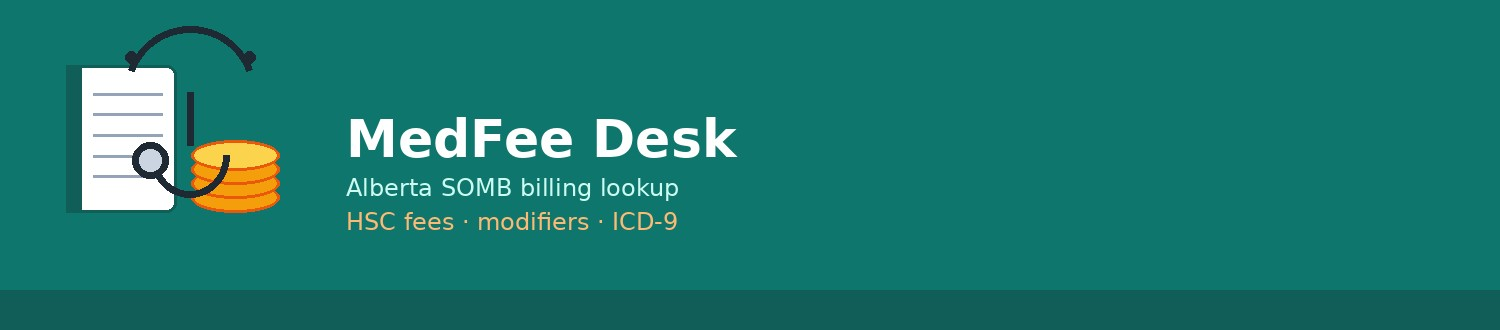
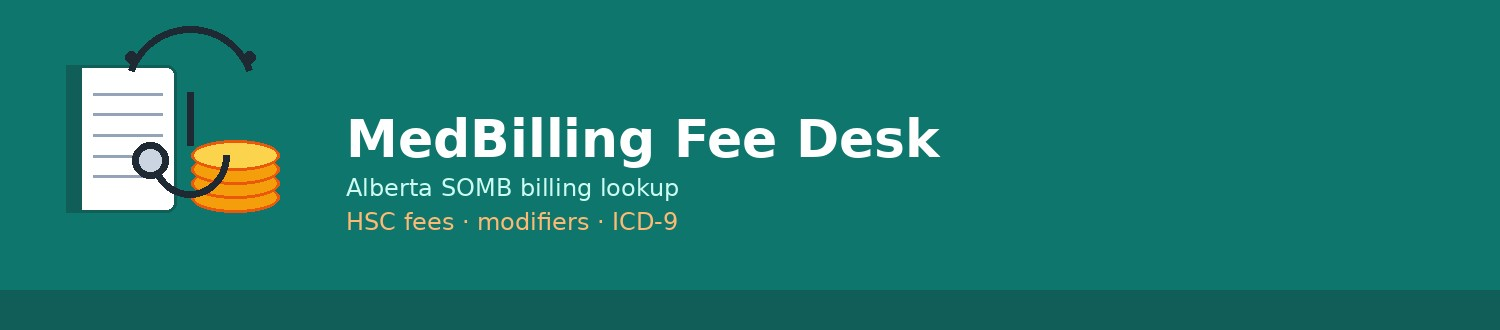
Import site bundle a1596681189c2225d69307c4329e69f471bd3a3442d255f2dcfee0196f6692ae

Changed region(s): [[0.3067, 0.3333, 0.644, 0.5152]]

diff --git a/site/js/app.js b/site/js/app.js
@@ -1,4 +1,4 @@
-/* MedFee Desk - app. Static, offline-capable. No analytics, no trackers, no patient data stored. */
+/* MedBilling Fee Desk - app. Static, offline-capable. No analytics, no trackers, no patient data stored. */
 (function () {
   'use strict';
   const $ = (s, el) => (el || document).querySelector(s);
@@ -44,21 +44,21 @@
   const keyToItem = (k, t) => ({ type: k[0] === 'H' ? 'HSC' : 'ICD9', code: k.slice(2), ...(t ? { at: t } : {}) });
   function exportSaved() {
     const now = new Date();
-    const data = { app: 'MedFee Desk', kind: 'favourites', version: 1, exported: now.toISOString(),
+    const data = { app: 'MedBilling Fee Desk', kind: 'favourites', version: 1, exported: now.toISOString(),
       favourites: FAVS.map(k => keyToItem(k, TS.f[k])), recent: RECENT.map(k => keyToItem(k, TS.r[k])) };
     const d = `${now.getFullYear()}-${String(now.getMonth() + 1).padStart(2, '0')}-${String(now.getDate()).padStart(2, '0')}`;
-    const name = `medfee-desk-favourites-${d}.json`, text = JSON.stringify(data, null, 1);
+    const name = `medbilling-fee-desk-favourites-${d}.json`, text = JSON.stringify(data, null, 1);
     const blob = new Blob([text], { type: 'application/json' });
     const download = () => { const u = URL.createObjectURL(blob); const a = document.createElement('a'); a.href = u; a.download = name; a.rel = 'noopener'; document.body.appendChild(a); a.click(); a.remove(); setTimeout(() => URL.revokeObjectURL(u), 4000); toast('Exported ' + name); };
     // iPhone/iPad (Safari and home-screen app): the share sheet offers "Save to Files", AirDrop, Mail. Elsewhere: a normal download.
     let file = null; try { file = new File([blob], name, { type: 'application/json' }); } catch (e) {}
     if (phone && file && navigator.canShare && navigator.canShare({ files: [file] })) {
-      navigator.share({ files: [file], title: 'MedFee Desk favourites' }).then(() => toast('Exported ' + name)).catch(err => { if (!err || err.name !== 'AbortError') download(); });
+      navigator.share({ files: [file], title: 'MedBilling Fee Desk favourites' }).then(() => toast('Exported ' + name)).catch(err => { if (!err || err.name !== 'AbortError') download(); });
     } else download();
   }
   function parseImport(text) {
     const o = JSON.parse(text);
-    if (!o || typeof o !== 'object' || (!Array.isArray(o.favourites) && !Array.isArray(o.recent))) throw new Error('not a MedFee Desk favourites file');
+    if (!o || typeof o !== 'object' || (!Array.isArray(o.favourites) && !Array.isArray(o.recent))) throw new Error('not a MedBilling Fee Desk favourites file');
     const conv = arr => (Array.isArray(arr) ? arr : []).map(x => {
       if (!x || typeof x.code !== 'string') return null;
       const code = x.code.trim().toUpperCase(), t = x.type === 'ICD9' ? 'I' : 'H';
@@ -71,7 +71,7 @@
   function importSaved(file) {
     const r = new FileReader();
     r.onload = () => {
-      let p; try { p = parseImport(String(r.result)); } catch (e) { alert('Import failed: this is not a MedFee Desk favourites file.'); return; }
+      let p; try { p = parseImport(String(r.result)); } catch (e) { alert('Import failed: this is not a MedBilling Fee Desk favourites file.'); return; }
       const newFav = [...new Set(p.fav.map(x => x.key))].filter(k => !FAVS.includes(k));
       const skipped = p.skipped - p.fav.length - p.rec.length;
       if (!newFav.length && !p.rec.length) { alert('Nothing to import: all favourites in this file are already saved' + (skipped ? ` (${skipped} unknown code${skipped > 1 ? 's' : ''} skipped)` : '') + '.'); return; }
@@ -710,7 +710,7 @@
       const js = r.journals.filter(o => !o.obgy || skill === 'OBGY' || skill === 'BASE' || !icd);
       return `<div class="region"><h3>${esc(r.name)}</h3><ul>${orgs.map(item).join('')}</ul>${r.local ? `<h4>${esc(r.localLabel || 'Regional and local resources')}</h4><ul>${r.local.map(item).join('')}</ul>` : ''}${r.charities ? `<h4>National Health Charities &amp; Organizations</h4><ul>${r.charities.map(item).join('')}</ul>` : ''}<h4>Journals</h4><ul>${js.map(item).join('')}</ul></div>`;
     }).join('')}
-    <p class="small muted">External links for reference; MedFee Desk is not affiliated. Search links carry only the condition name${icd ? ` ("${esc(term)}")` : ''}.</p>
+    <p class="small muted">External links for reference; MedBilling Fee Desk is not affiliated. Search links carry only the condition name${icd ? ` ("${esc(term)}")` : ''}.</p>
     <p class="small muted">ICD-10/ICD-11 equivalents: no validated crosswalk from the Alberta ICD-9 supplement is bundled; use the WHO ICD-10/11 browsers above.</p>`;
   }
   function wireRegion(root, icd) {
@@ -798,7 +798,7 @@
   function gr(id) { return RULEBY[id] ? `<a href="#/rules/${id}">GR ${id}</a>` : 'GR ' + id; }
   function renderNotes() {
     $('#notes').innerHTML = `<div class="notes">
-    <p class="small muted">Short claim notes written for MedFee Desk from the SOMB effective ${esc(fmtDate(META.sombEffective))}. Fees shown for fee skill ${esc(skill === 'BASE' ? 'base' : skill)}. The governing rule text prevails.</p>
+    <p class="small muted">Short claim notes written for MedBilling Fee Desk from the SOMB effective ${esc(fmtDate(META.sombEffective))}. Fees shown for fee skill ${esc(skill === 'BASE' ? 'base' : skill)}. The governing rule text prevails.</p>
     <div class="card"><h3>Cesarean section and BMI</h3><ul>
       <li>${hsc('86.9C')}; ${hsc('86.9D')}; ${hsc('86.9B')}. Neither 86.9C nor 86.9D may be claimed with 81.29C (HSC note).</li>
       <li>BMI modifier (BMIPRO for the surgeon/assistant, BMIANE/BMI2AN for anaesthesia) adds 25% where the price list lists it: adult BMI ≥ 40 or paediatric &gt; 97th percentile — ${gr('18.1')}.</li>
@@ -858,7 +858,7 @@
     $('#aiList').addEventListener('click', e => {
       const b = e.target.closest('button[data-ai]'); if (!b) return;
       aiPick = AIS.find(a => a.id === b.dataset.ai);
-      $('#aiConfirmText').textContent = `This opens ${aiPick.name} outside MedFee Desk. Do not add patient names, PHN, DOB, chart or claim numbers.`;
+      $('#aiConfirmText').textContent = `This opens ${aiPick.name} outside MedBilling Fee Desk. Do not add patient names, PHN, DOB, chart or claim numbers.`;
       $('#aiList').hidden = true; $('#aiConfirm').hidden = false;
     });
     $('#aiBack').onclick = () => { $('#aiConfirm').hidden = true; $('#aiList').hidden = false; };

diff --git a/site/index.html b/site/index.html
@@ -5,24 +5,24 @@
 <meta name="viewport" content="width=device-width, initial-scale=1, viewport-fit=cover">
 <meta http-equiv="Content-Security-Policy" content="default-src 'self'; script-src 'self'; style-src 'self'; img-src 'self' data:; connect-src 'self' https://api.web3forms.com; form-action https://api.web3forms.com; manifest-src 'self'; worker-src 'self'; base-uri 'self'">
 <meta name="referrer" content="no-referrer">
-<title>MedFee Desk</title>
-<meta name="description" content="MedFee Desk: private Alberta SOMB billing lookup: health service codes, fees by fee skill, modifiers, governing rules and ICD-9 codes.">
+<title>MedBilling Fee Desk</title>
+<meta name="description" content="MedBilling Fee Desk: private Alberta SOMB billing lookup: health service codes, fees by fee skill, modifiers, governing rules and ICD-9 codes.">
 <meta name="theme-color" content="#0f766e">
 <meta name="apple-mobile-web-app-capable" content="yes">
 <meta name="mobile-web-app-capable" content="yes">
 <meta name="apple-mobile-web-app-status-bar-style" content="black-translucent">
-<meta name="apple-mobile-web-app-title" content="MedFee Desk">
-<meta property="og:title" content="MedFee Desk">
-<meta property="og:description" content="MedFee Desk: Alberta SOMB billing lookup for physicians.">
-<meta property="og:site_name" content="MedFee Desk">
+<meta name="apple-mobile-web-app-title" content="Fee Desk">
+<meta property="og:title" content="MedBilling Fee Desk">
+<meta property="og:description" content="MedBilling Fee Desk: Alberta SOMB billing lookup for physicians.">
+<meta property="og:site_name" content="MedBilling Fee Desk">
 <meta property="og:image" content="https://tp8p7c4vwr-del.github.io/delara-medbilling/og.jpg">
 <meta property="og:url" content="https://tp8p7c4vwr-del.github.io/delara-medbilling/">
 <meta property="og:type" content="website">
 <meta name="twitter:image" content="https://tp8p7c4vwr-del.github.io/delara-medbilling/og.jpg">
 <meta name="twitter:card" content="summary_large_image">
-<meta name="twitter:title" content="MedFee Desk">
-<meta name="twitter:description" content="MedFee Desk: Alberta SOMB billing lookup for physicians.">
-<meta name="application-name" content="MedFee Desk">
+<meta name="twitter:title" content="MedBilling Fee Desk">
+<meta name="twitter:description" content="MedBilling Fee Desk: Alberta SOMB billing lookup for physicians.">
+<meta name="application-name" content="MedBilling Fee Desk">
 <link rel="manifest" href="manifest.webmanifest">
 <link rel="icon" href="icons/icon-192.png" sizes="192x192">
 <link rel="apple-touch-icon" href="icons/apple-touch-icon.png">
@@ -30,9 +30,9 @@
 </head>
 <body>
 <header class="top">
-  <a class="brand" id="homeLink" href="./" aria-label="MedFee Desk home">
+  <a class="brand" id="homeLink" href="./" aria-label="MedBilling Fee Desk home">
     <img src="icons/icon-192.png" alt="" width="32" height="32">
-    <span class="title" aria-hidden="true">MedFee Desk</span>
+    <span class="title" aria-hidden="true">MedBilling Fee Desk</span>
   </a>
   <label class="skill">
     <span>Fee skill</span>
@@ -138,14 +138,14 @@
 <footer class="foot">
   <p id="dataline" class="dataline">Data: SOMB effective …, source alberta.ca</p>
   <p class="disclaimer">Reference only; verify against the current SOMB before submitting claims.</p>
-  <p class="small muted">External links for reference; MedFee Desk is not affiliated.</p>
+  <p class="small muted">External links for reference; MedBilling Fee Desk is not affiliated.</p>
   <p class="small muted">No patient data is stored. No analytics or trackers. Search runs on this device.</p>
   <details class="feedback">
     <summary>Suggest a change</summary>
     <form id="fb" novalidate>
       <p class="warn small">Do not include patient names, PHN, DOB, chart or claim numbers.</p>
       <input type="hidden" name="access_key" value="60e64aa8-fc33-4b85-9742-2a973a88369e">
-      <input type="hidden" name="subject" value="MedFee Desk feedback">
+      <input type="hidden" name="subject" value="MedBilling Fee Desk feedback">
       <input type="checkbox" name="botcheck" class="hp" tabindex="-1" autocomplete="off" aria-hidden="true">
       <label>Your email (optional)<input type="email" name="email" autocomplete="email"></label>
       <label>Suggestion<textarea name="message" rows="4" required></textarea></label>
@@ -153,7 +153,7 @@
       <p id="fbmsg" class="small" role="status"></p>
     </form>
   </details>
-  <div class="copyright">© 2026 MedFee Desk. All rights reserved. This app is protected by copyright. Reproduction or duplication without permission is an infringement.</div>
+  <div class="copyright">© 2026 MedBilling Fee Desk. All rights reserved. This app is protected by copyright. Reproduction or duplication without permission is an infringement.</div>
 </footer>
 
 <dialog id="aiDialog">

diff --git a/site/sw.js b/site/sw.js
@@ -1,7 +1,7 @@
-/* Offline cache for MedFee Desk. Same-origin only; never caches or forwards anything else.
+/* Offline cache for MedBilling Fee Desk. Same-origin only; never caches or forwards anything else.
    App shell (HTML/JS/CSS/manifest) is network-first so updates show up immediately; data and icons are
    stale-while-revalidate. Install fetches bypass the HTTP cache so a new version never caches old files. */
-const V = 'mb-v9-2026-04-01';
+const V = 'mb-v10-2026-04-01';
 const ASSETS = ['./', 'index.html', 'css/app.css', 'js/search.js', 'js/app.js', 'manifest.webmanifest',
   'icons/icon-192.png', 'icons/icon-512.png', 'icons/apple-touch-icon.png',
   'data/meta.json', 'data/codes.json', 'data/rules.json', 'data/modifiers.json', 'data/explanatory.json',

diff --git a/site/js/search.js b/site/js/search.js
@@ -1,4 +1,4 @@
-/* MedFee Desk - local BM25 + fuzzy + synonym search. Runs entirely in the browser; no network. */
+/* MedBilling Fee Desk - local BM25 + fuzzy + synonym search. Runs entirely in the browser; no network. */
 (function (global) {
   'use strict';
   const STOP = new Set('a an and or the of for to in on at by with without from is are be as per any other than this that into its it within each all not may only same when which who over under after before more less than s e g eg etc nec'.split(' '));
